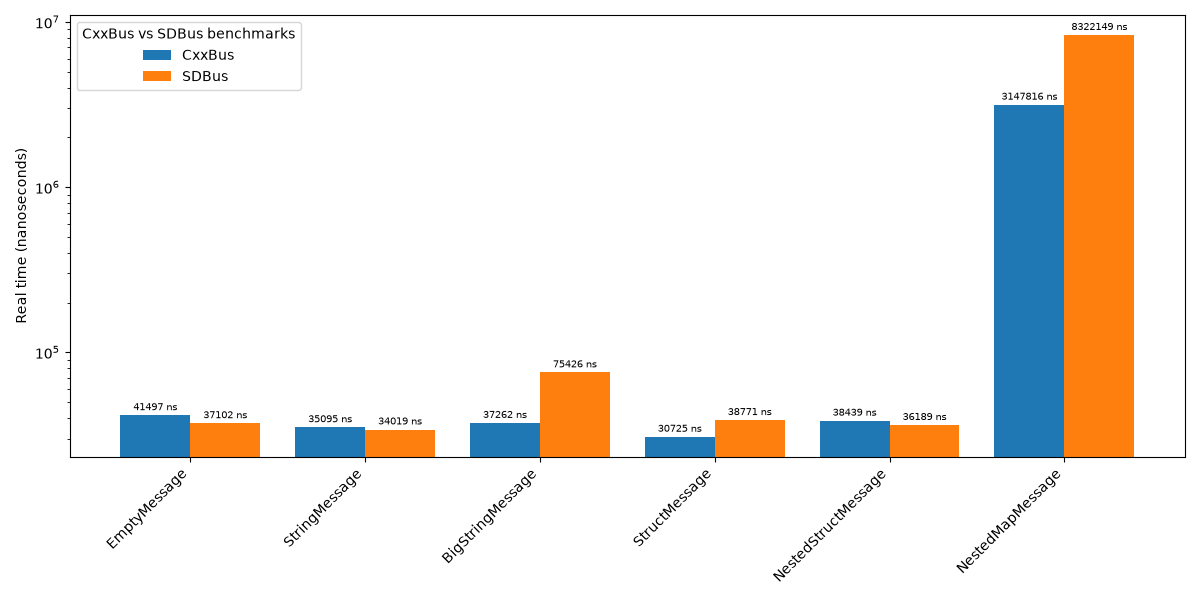
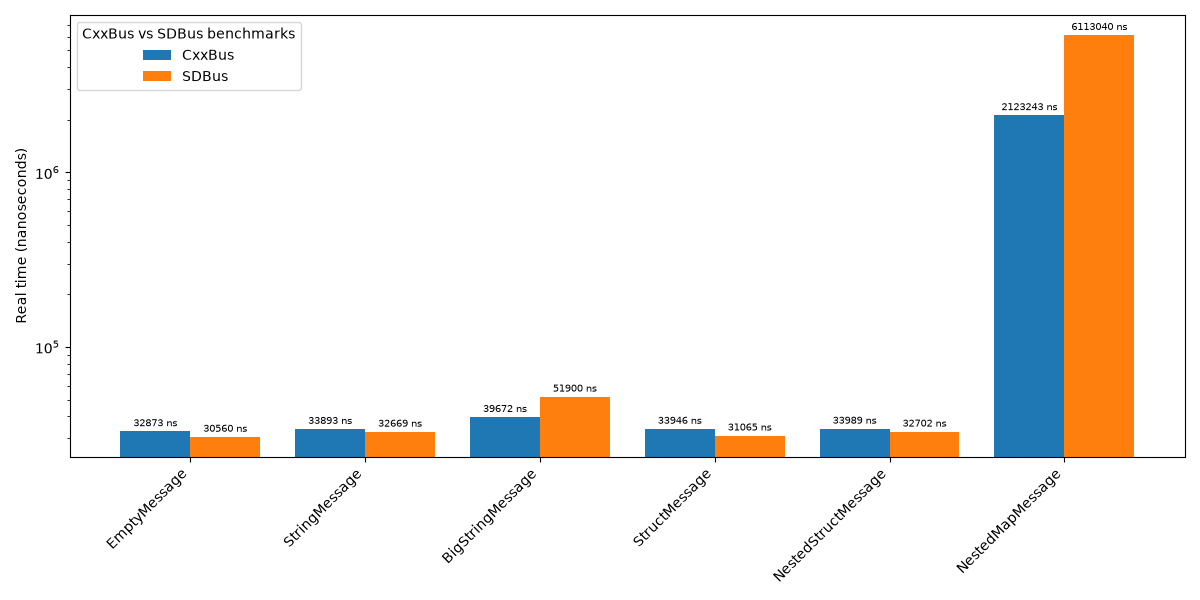
Optimize 'Serialize()' more by utilizing FastVariant

diff --git a/src/DBusMessage.cpp b/src/DBusMessage.cpp
@@ -45,11 +45,11 @@ namespace cxxbus
     concept IsAcceptedMessageType =
         requires { requires T == DBusMessageType::METHOD_CALL || T == DBusMessageType::SIGNAL; };
 
-    std::vector<byte> CreateDBusMessage(DBusMessageType msgType, uint32_t serial, std::vector<byte> messageBody,
+    std::vector<byte> CreateDBusMessage(DBusMessageType msgType, uint32_t serial, std::span<byte const> messageBody,
                                         uint32_t messageFlags, std::optional<std::string> const& method,
                                         std::optional<ObjectPath> const& objectPath,
                                         std::optional<DBusInterfaceName> const& interface,
-                                        std::optional<std::string> destination,
+                                        std::optional<std::string> const& destination,
                                         std::optional<Signature> const& signature,
                                         std::optional<std::string> const& errorName,
                                         std::optional<uint32_t> const& replySerial)
@@ -72,7 +72,7 @@ namespace cxxbus
 
       std::vector<byte> dbusMessage{};
 
-      std::vector<std::tuple<uint8_t, Variant>> headerFields{};
+      std::vector<std::tuple<uint8_t, FastVariant>> headerFields{};
       for (HeaderField const& headerField : HEADER_FIELDS)
       {
         if (headerField.decimalCode == HeaderFieldCode::SIGNATURE)
@@ -87,7 +87,7 @@ namespace cxxbus
           continue;
         }
 
-        Variant variant{};
+        FastVariant variant{};
         switch (headerField.decimalCode)
         {
           case HeaderFieldCode::NONE:
@@ -105,7 +105,7 @@ namespace cxxbus
               throw DBusSerializationError{
                   std::format("replySerial is required for message type {}", magic_enum::enum_name(msgType))};
             }
-            variant = Variant::Create(replySerial.value());
+            variant = FastVariant::Create(replySerial.value());
             break;
           case HeaderFieldCode::ERROR_NAME:
             if (!errorName.has_value() || errorName->empty())
@@ -113,7 +113,7 @@ namespace cxxbus
               throw DBusSerializationError{
                   std::format("ErrorName is required for message type {}", magic_enum::enum_name(msgType))};
             }
-            variant = Variant::Create(errorName.value());
+            variant = FastVariant::Create(errorName.value());
             break;
           case HeaderFieldCode::PATH:
             if (!objectPath.has_value() || objectPath->Empty())
@@ -121,7 +121,7 @@ namespace cxxbus
               throw DBusSerializationError{
                   std::format("Path is required for message type {}", magic_enum::enum_name(msgType))};
             }
-            variant = Variant::Create(*objectPath);
+            variant = FastVariant::Create(*objectPath);
             break;
           case HeaderFieldCode::INTERFACE:
             if (!interface.has_value() || interface->empty())
@@ -129,7 +129,7 @@ namespace cxxbus
               throw DBusSerializationError{
                   std::format("Interface is required for message type {}", magic_enum::enum_name(msgType))};
             }
-            variant = Variant::Create(*interface);
+            variant = FastVariant::Create(*interface);
             break;
           case HeaderFieldCode::MEMBER:
             if (!method.has_value() || method->empty())
@@ -137,7 +137,7 @@ namespace cxxbus
               throw DBusSerializationError{
                   std::format("Method is required for message type {}", magic_enum::enum_name(msgType))};
             }
-            variant = Variant::Create(*method);
+            variant = FastVariant::Create(*method);
             break;
           case HeaderFieldCode::SIGNATURE:
             if (!signature.has_value() || signature->Empty())
@@ -145,7 +145,7 @@ namespace cxxbus
               throw DBusSerializationError{std::format("Signature is required for message type {} with non-empty body",
                                                        magic_enum::enum_name(msgType))};
             }
-            variant = Variant::Create(*signature);
+            variant = FastVariant::Create(*signature);
             break;
         }
 
@@ -154,18 +154,18 @@ namespace cxxbus
 
       // Interface is often optional, but if provided, use it
       if (interface.has_value() &&
-          std::ranges::find_if(headerFields, [](std::tuple<uint8_t, Variant> const& field)
+          std::ranges::find_if(headerFields, [](std::tuple<uint8_t, FastVariant> const& field)
                                { return std::get<0>(field) == static_cast<uint8_t>(HeaderFieldCode::INTERFACE); }) ==
               headerFields.cend())
       {
         headerFields.push_back(
-            std::make_tuple(static_cast<uint8_t>(HeaderFieldCode::INTERFACE), Variant::Create(interface.value())));
+            std::make_tuple(static_cast<uint8_t>(HeaderFieldCode::INTERFACE), FastVariant::Create(interface.value())));
       }
 
       if (destination.has_value() && !destination->empty())
       {
-        headerFields.push_back(
-            std::make_tuple(static_cast<uint8_t>(HeaderFieldCode::DESTINATION), Variant::Create(destination.value())));
+        headerFields.push_back(std::make_tuple(static_cast<uint8_t>(HeaderFieldCode::DESTINATION),
+                                               FastVariant::Create(destination.value())));
       }
 
 #if CXX_UNIT_TESTS
@@ -173,7 +173,7 @@ namespace cxxbus
 #endif  // CXX_UNIT_TESTS
 
       MultipleCompleteTypes<uint8_t, uint8_t, uint8_t, uint8_t, uint32_t, uint32_t,
-                            std::vector<std::tuple<uint8_t, Variant>>>
+                            std::vector<std::tuple<uint8_t, FastVariant>>>
           header{
               static_cast<uint8_t>(Endianness::LITTLE_ENDIAN_TYPE),  // Endianness
               static_cast<uint8_t>(msgType),                         // Message Type

diff --git a/src/DBus.h b/src/DBus.h
@@ -359,19 +359,57 @@ namespace cxxbus
 
   class FastVariant
   {
+   public:
+    inline constexpr static uint32_t SMALL_BUFFER_SIZE = 8;
+
    private:
+    struct VariantData
+    {
+      Signature signature;
+      std::variant<std::array<byte, SMALL_BUFFER_SIZE>, std::string_view> data;
+      VariantVTable const* vTable;
+      uint8_t dataAlignment;
+    };
+
     struct DeserializedVariantData
     {
       Signature signature;
       std::span<byte const> data;
     };
 
-    std::variant<DeserializedVariantData, std::monostate> m_variantData;
+    std::variant<DeserializedVariantData, VariantData, std::monostate> m_variantData;
 
    public:
     FastVariant()
       : m_variantData{std::monostate{}}
     {
+    }
+
+    template <typename T>
+    static FastVariant Create(T&& value)
+    {
+      FastVariant variant;
+      if constexpr (std::is_trivially_copyable_v<std::remove_cvref_t<T>>)
+      {
+        static_assert(sizeof(std::remove_cvref_t<T>) <= SMALL_BUFFER_SIZE,
+                      "FastVariant only supports simple types of up to 8 bytes");
+
+        std::array<byte, SMALL_BUFFER_SIZE> buff{};
+        std::memcpy(buff.data(), &value, sizeof(std::remove_cvref_t<T>));
+        variant.m_variantData.emplace<VariantData>(std::string{GetTypeSignature<std::remove_cvref_t<T>>()},
+                                                   std::move(buff), &vTableInstance<T>,
+                                                   GetAlignmentOfDBusType<std::remove_cvref_t<T>>());
+
+        return variant;
+      }
+      else if constexpr (IsDBusBasicStringlikeType<T>)
+      {
+        variant.m_variantData.emplace<VariantData>(
+            std::string{GetTypeSignature<std::remove_cvref_t<T>>()}, std::string_view{value},
+            &vTableInstance<char const*, std::remove_cvref_t<T>>, GetAlignmentOfDBusType<std::remove_cvref_t<T>>());
+
+        return variant;
+      }
     }
 
     FastVariant(DeserializedVariantTag, Signature&& signature, std::span<byte const>&& data)
@@ -383,7 +421,12 @@ namespace cxxbus
     FastVariant(FastVariant const& other)
       : m_variantData(std::monostate{})
     {
-      if (std::holds_alternative<DeserializedVariantData>(other.m_variantData))
+      if (std::holds_alternative<VariantData>(other.m_variantData))
+      {
+        VariantData const& data = std::get<VariantData>(other.m_variantData);
+        m_variantData.emplace<VariantData>(data.signature, data.data, data.vTable, data.dataAlignment);
+      }
+      else if (std::holds_alternative<DeserializedVariantData>(other.m_variantData))
       {
         DeserializedVariantData const& data = std::get<DeserializedVariantData>(other.m_variantData);
         m_variantData.emplace<DeserializedVariantData>(data.signature, data.data);
@@ -413,35 +456,36 @@ namespace cxxbus
 
     Signature const& GetSignature() const
     {
-      if (std::holds_alternative<DeserializedVariantData>(m_variantData))
-      {
-        return std::get<DeserializedVariantData>(m_variantData).signature;
-      }
-      else
-      {
-        throw std::runtime_error{"Variant is in an invalid state"};
-      }
+      return std::get<DeserializedVariantData>(m_variantData).signature;
     }
+
     uint8_t GetDataAlignment() const
     {
-      if (std::holds_alternative<DeserializedVariantData>(m_variantData))
+      return 1;  // Deserialized data alignment is 1
+    }
+
+    void MarshalData(std::vector<byte>& dbusType) const
+    {
+      VariantData const& data = std::get<VariantData>(m_variantData);
+
+      // We marshal a variant by marshalling its signature followed by the data (with padding of course)
+      // Add signature + padding to data type
+      MarshalDBusTypeImpl(data.signature, dbusType);
+      ApplyPadding(dbusType, data.dataAlignment);
+
+      if (std::holds_alternative<std::array<byte, SMALL_BUFFER_SIZE>>(data.data))
       {
-        return 1;  // Deserialized data alignment is 1
+        data.vTable->marshalDataFunc(std::get<std::array<byte, SMALL_BUFFER_SIZE>>(data.data).data(), dbusType);
       }
       else
       {
-        throw std::runtime_error{"Variant is in an invalid state"};
+        data.vTable->marshalDataFunc(std::get<std::string_view>(data.data).data(), dbusType);
       }
     }
 
     template <IsDBusType T>
     T UnmarshalData() const
     {
-      if (!std::holds_alternative<DeserializedVariantData>(m_variantData))
-      {
-        throw VariantUnmarshalError{"Cannot unmarshal a non-deserialized variant"};
-      }
-
       DeserializedVariantData const& data = std::get<DeserializedVariantData>(m_variantData);
 
       if (std::string{GetTypeSignature<T>()} != data.signature)

diff --git a/src/DBusTypes.h b/src/DBusTypes.h
@@ -130,6 +130,7 @@ namespace cxxbus
     uint32_t size() const;
 
     explicit operator std::string() const;
+    explicit operator std::string_view() const;
 
     std::string const& GetPath() const;
     char const* data() const;
@@ -151,6 +152,7 @@ namespace cxxbus
 
     uint32_t size() const;
     explicit operator std::string() const;
+    explicit operator std::string_view() const;
     std::string const& GetSignature() const;
     // Get the alignment of the contained signature
     uint8_t GetAlignmentOfSignature() const;
@@ -258,6 +260,7 @@ namespace cxxbus
 
     uint32_t size() const;
     explicit operator std::string() const;
+    explicit operator std::string_view() const;
     bool empty() const;
     char const* data() const;
     bool contains(char c) const;

diff --git a/src/DBusTypes.cpp b/src/DBusTypes.cpp
@@ -145,6 +145,11 @@ namespace cxxbus
     return m_path;
   }
 
+  ObjectPath::operator std::string_view() const
+  {
+    return m_path;
+  }
+
   std::string const& ObjectPath::GetPath() const
   {
     return m_path;
@@ -176,6 +181,11 @@ namespace cxxbus
   }
 
   Signature::operator std::string() const
+  {
+    return m_signature;
+  }
+
+  Signature::operator std::string_view() const
   {
     return m_signature;
   }
@@ -335,6 +345,11 @@ namespace cxxbus
   }
 
   DBusInterfaceName::operator std::string() const
+  {
+    return m_name;
+  }
+
+  DBusInterfaceName::operator std::string_view() const
   {
     return m_name;
   }
